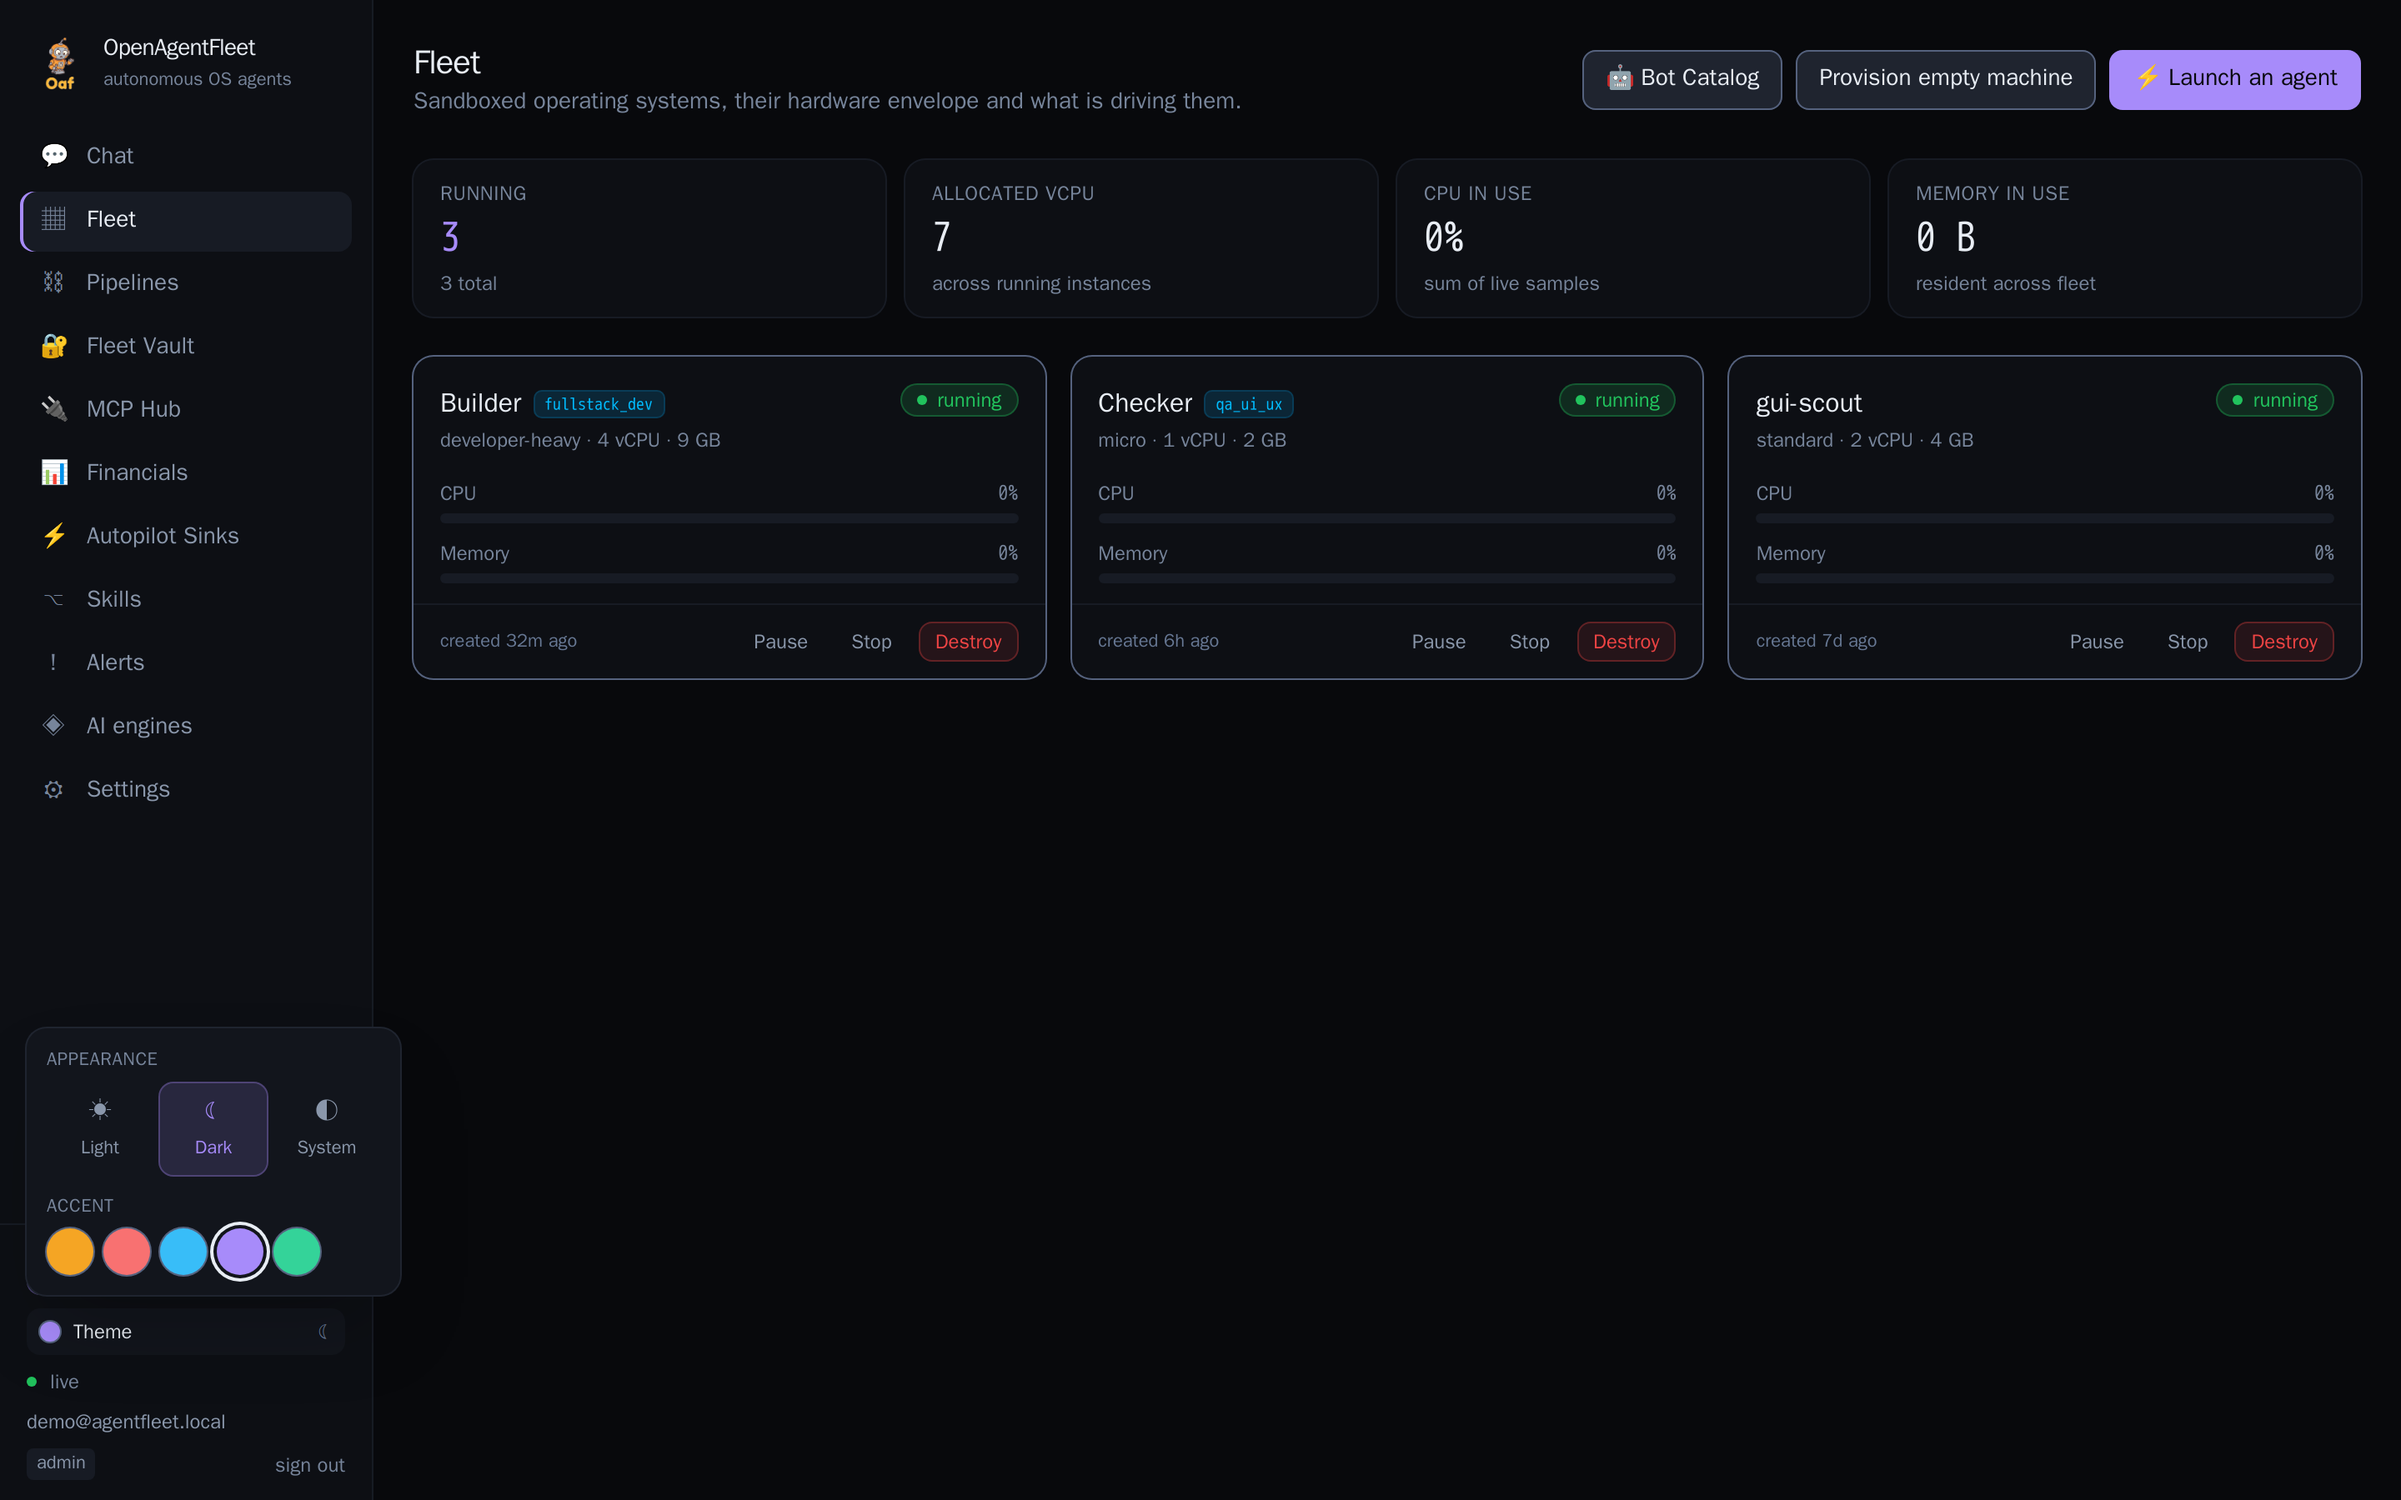
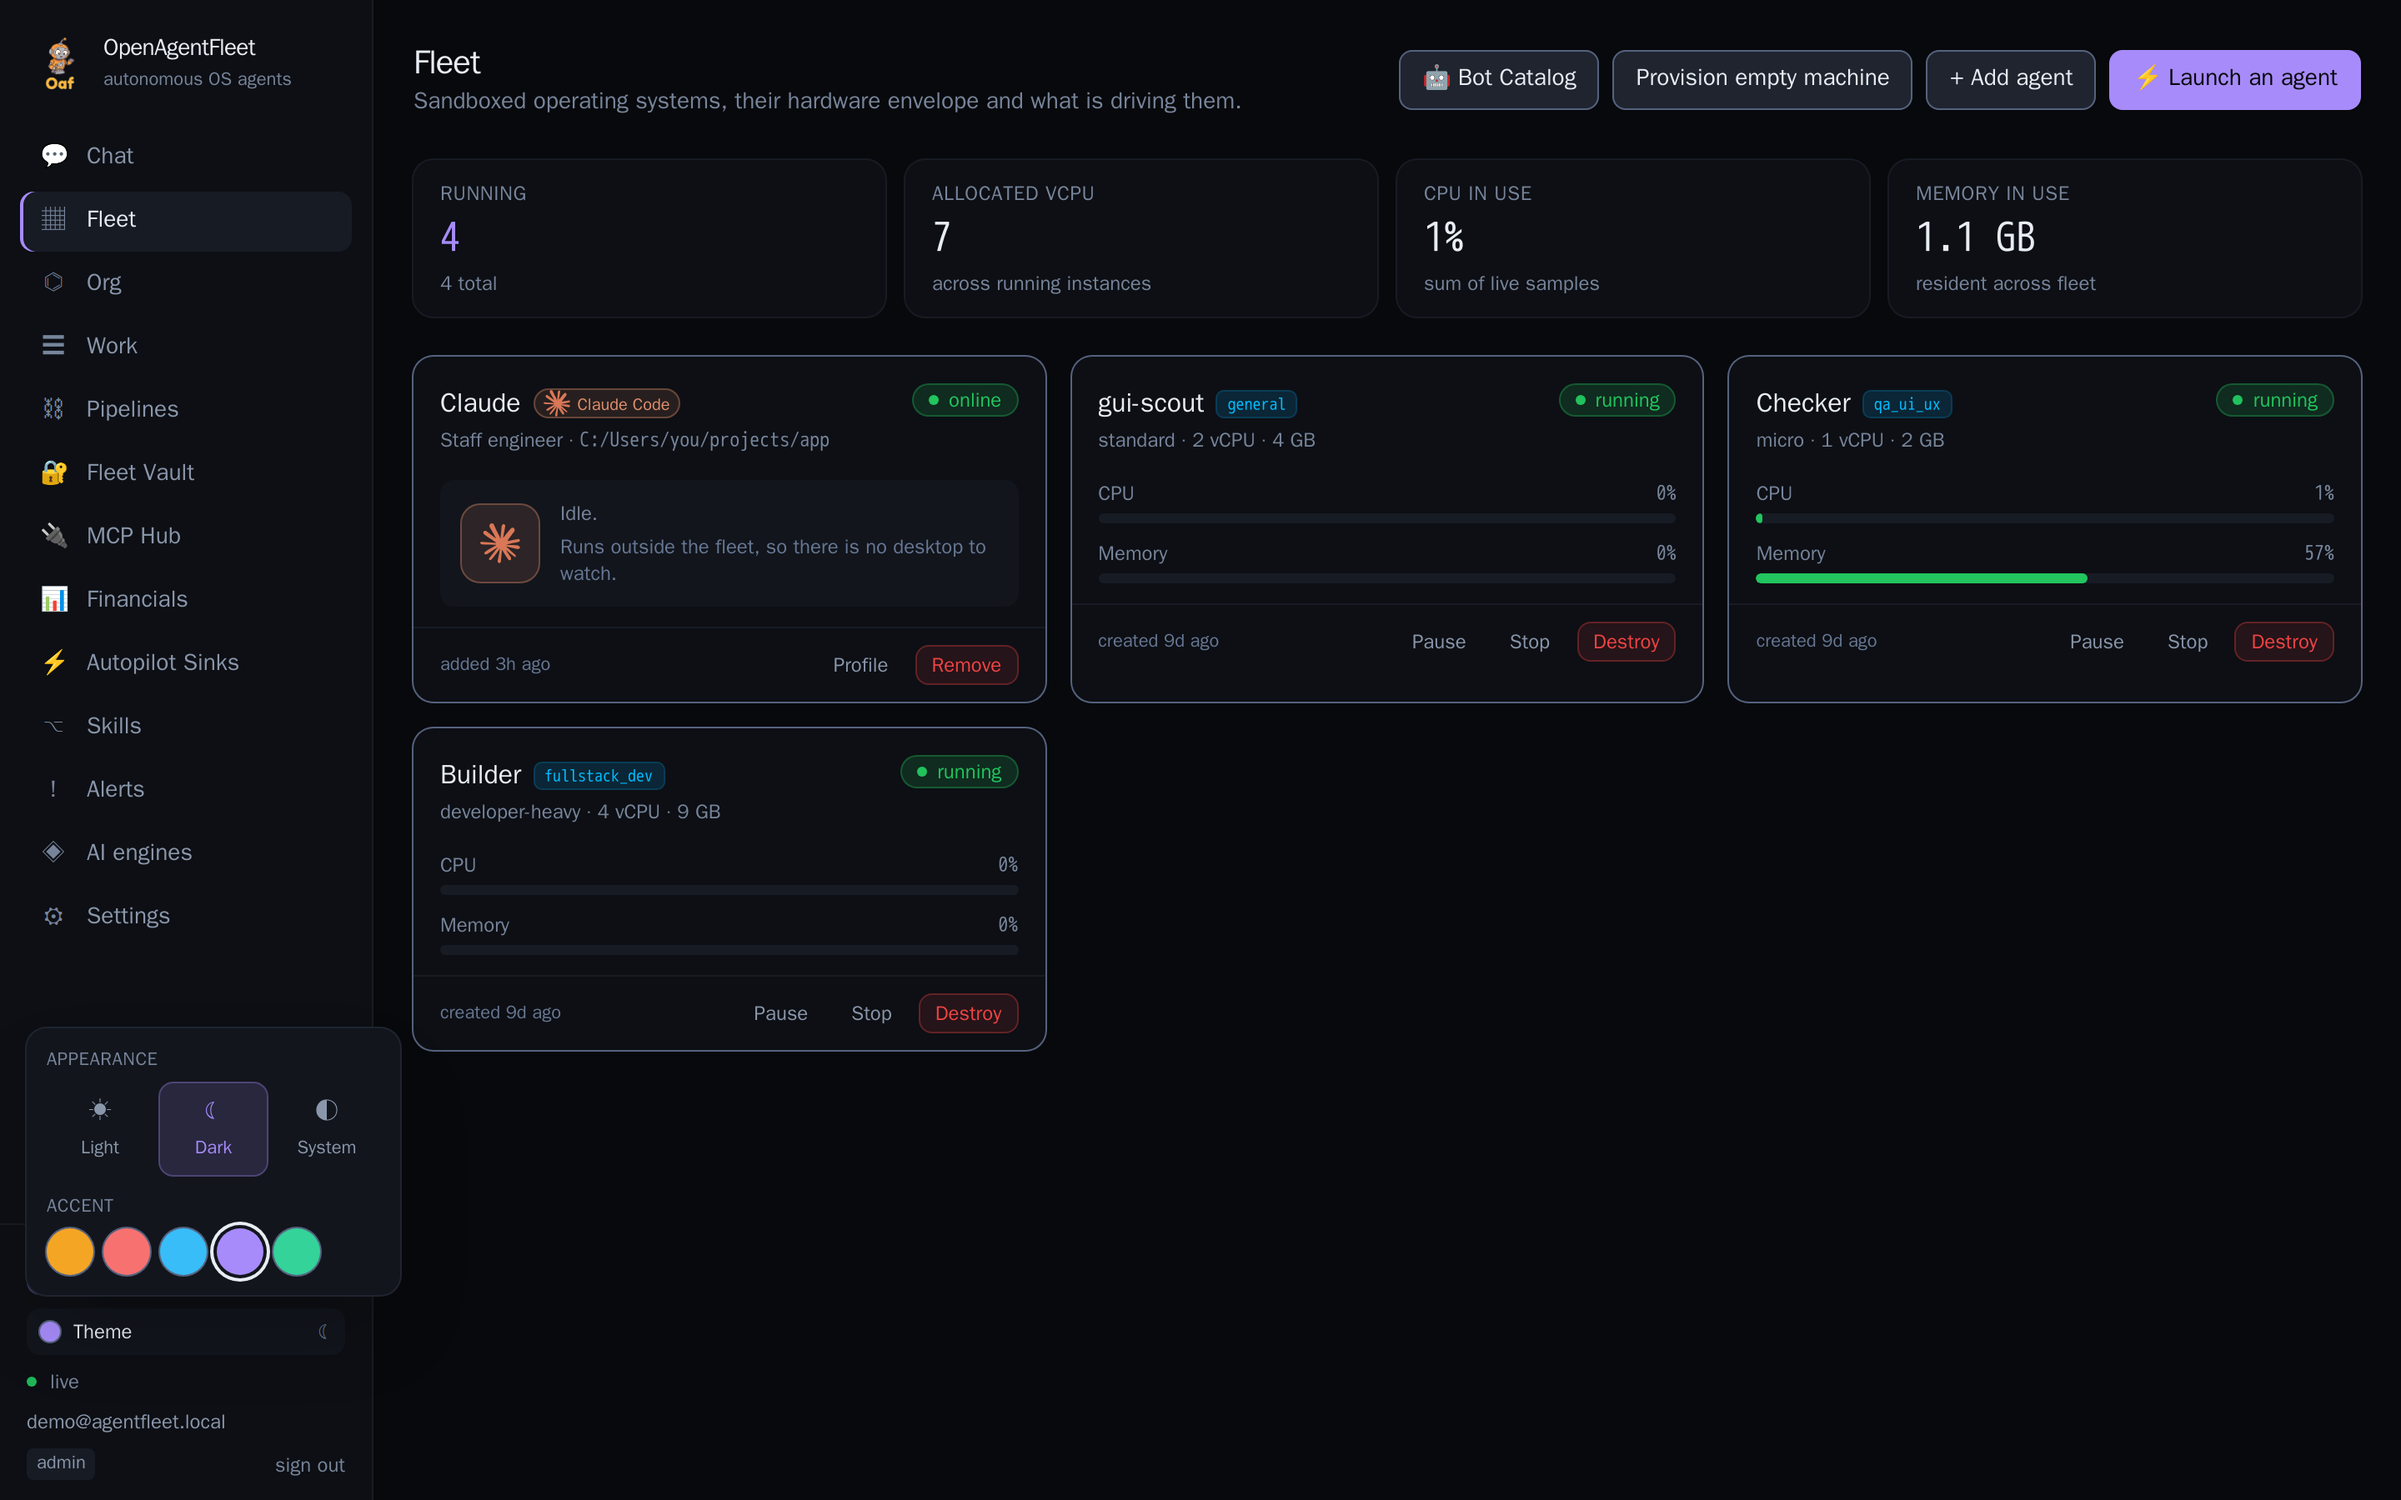
Docs gallery regenerated: Org, Work, a ticket, Add agent, and the app
- scripts/screenshots.mjs rerun against the rebuilt console: every
  console shot is current (the new sidebar, the Fleet card for the Claude
  Code agent), plus org, work, ticket and add-agent in dark/amber and
  light/blue. The PC is shown as 'Workstation' with C:/Users/you/projects
  so no real home directory is in the docs.
- The app's org chart, Work, ticket and add-agent screens, rendered from
  the real web build, dark and light.
- UI.md: sections for the four new console screens and the app set; the
  note about an empty fleet is no longer true.
- README: the org chart, Work, a ticket, Add agent and the app chart in
  'What it looks like'.

diff --git a/docs/UI.md b/docs/UI.md
@@ -8,8 +8,11 @@ Nothing here is a mockup. To regenerate them after a UI change:
 make screenshots
 ```
 
-The fleet is empty in these captures because they run against a fresh
-deployment — that is the genuine first-run state, not a staged one.
+They are captured against a small working fleet: three desktop bots and a
+Claude Code agent on a PC, with the tickets they actually worked. The PC's
+name and folder are the one thing changed for the pictures ("Workstation",
+`C:/Users/you/projects`), so a real home directory does not end up in the
+docs.
 
 ---
 
@@ -25,6 +28,48 @@ on a human turns amber and says so.
 | Dark | Light |
 | --- | --- |
 | ![Fleet, dark](images/fleet-dark-amber.png) | ![Fleet, light](images/fleet-light-blue.png) |
+
+### Org chart
+
+Who reports to whom. Everyone reports to you until you say otherwise; drag an
+agent onto another to change its manager (a drop that would make a loop is
+refused before it lands). Each card says what kind of agent it is — a desktop,
+or Claude Code, Codex, Hermes or OpenClaw with its own logo — what it is
+working on, and what it has spent this month against its budget.
+
+| Dark | Light |
+| --- | --- |
+| ![Org chart, dark](images/org-dark-amber.png) | ![Org chart, light](images/org-light-blue.png) |
+
+### Work
+
+Every ticket, from your requests down to their parts, by status. Drag a card
+between columns; cancelling one that has open parts says how many go with it.
+Verify and review tickets carry their verdict.
+
+| Dark | Light |
+| --- | --- |
+| ![Work board, dark](images/work-dark-amber.png) | ![Work board, light](images/work-light-blue.png) |
+
+### A ticket
+
+Why it matters (the chain up to your request), who has it, who reviews and
+verifies it, what it cost, the closing report, the files its agent shared
+with the fleet, and every comment and run.
+
+| Dark | Light |
+| --- | --- |
+| ![A ticket, dark](images/ticket-dark-amber.png) | ![A ticket, light](images/ticket-light-blue.png) |
+
+### Add an agent
+
+Desktop, Claude Code, Codex, Hermes, OpenClaw or a webhook. For the agents that
+live on a PC, pick the PC running `fleetctl host`, a folder under one of its
+roots, and how much it may do on its own.
+
+| Dark | Light |
+| --- | --- |
+| ![Add agent, dark](images/add-agent-dark-amber.png) | ![Add agent, light](images/add-agent-light-blue.png) |
 
 ### Launch an agent
 
@@ -81,7 +126,7 @@ authoritative — the one input it trusts above what is on its own screen.
 Access control and platform limits. The credential vault moved to its own
 top-level page; what remains here is the deployment secret store.
 
-> **This gallery covers nine of the console's sections**, regenerated with
+> **This gallery covers thirteen of the console's screens**, regenerated with
 > `make screenshots` — the fleet Chat the console opens on, then the rest. The navigation also carries Pipelines,
 > Fleet Vault, MCP Hub, Financials and Autopilot Sinks, plus the voice co-pilot
 > launcher, which are not photographed here. Two more sets live alongside this
@@ -100,6 +145,19 @@ sign in on a glaring screen to find the light switch.
 | Dark | Light |
 | --- | --- |
 | ![Login, dark](images/login-dark.png) | ![Login, light](images/login-light.png) |
+
+---
+
+## The companion app
+
+The same org chart, Work board and add-agent flow on the phone: long-press and
+drag on the chart to change who reports to whom, tap a shared file in a ticket
+to open it.
+
+| Org chart | Work | A ticket | Add an agent |
+| --- | --- | --- | --- |
+| ![Org chart on the phone, dark](images/app-org-dark.png) | ![Work on the phone, dark](images/app-work-dark.png) | ![A ticket on the phone, dark](images/app-ticket-dark.png) | ![Add agent on the phone, dark](images/app-add-agent-dark.png) |
+| ![Org chart on the phone, light](images/app-org-light.png) | ![Work on the phone, light](images/app-work-light.png) | ![A ticket on the phone, light](images/app-ticket-light.png) | ![Add agent on the phone, light](images/app-add-agent-light.png) |
 
 ---
 

diff --git a/README.md b/README.md
@@ -471,7 +471,32 @@ Real screenshots of a running fleet — console (`make screenshots`), live deskt
   <img src="docs/images/fleet-dark-amber.png" alt="Fleet dashboard" width="900">
 </p>
 
-<p align="center"><em>The fleet: every machine, its hardware envelope, and what its agent is doing right now.</em></p>
+<p align="center"><em>The fleet: every machine, its hardware envelope, and what its agent is doing right now — and the agents that are not machines, like this Claude Code on a PC.</em></p>
+
+<p align="center">
+  <img src="docs/images/org-dark-amber.png" alt="The org chart: desktop bots and a Claude Code agent reporting to Builder, each card with its kind, what it is on and its spend this month" width="900">
+</p>
+
+<p align="center"><em>The org chart. Drag an agent onto another to change who it reports to; blocked work goes up the chart to its manager, then to you.</em></p>
+
+<table>
+  <tr>
+    <td width="50%"><img src="docs/images/work-dark-amber.png" alt="The Work board: tickets by status, with verify tickets and their verdicts"></td>
+    <td width="50%"><img src="docs/images/ticket-dark-amber.png" alt="A ticket: why it matters, who has it, the closing report and the files its agent shared"></td>
+  </tr>
+  <tr>
+    <td align="center"><strong>Work</strong><br><sub>Every request and its parts, by status, with review and verify verdicts.</sub></td>
+    <td align="center"><strong>A ticket</strong><br><sub>The chain up to your request, the closing report, the files shared with the fleet.</sub></td>
+  </tr>
+  <tr>
+    <td width="50%"><img src="docs/images/add-agent-dark-amber.png" alt="Add a Claude Code agent: the PC, its folder, and edits or full autonomy"></td>
+    <td width="50%"><img src="docs/images/app-org-dark.png" alt="The org chart on the phone" height="360"></td>
+  </tr>
+  <tr>
+    <td align="center"><strong>Bring your agents</strong><br><sub>Claude Code, Codex or Hermes on your PC, an OpenClaw gateway or a webhook, beside the desktops.</sub></td>
+    <td align="center"><strong>On the phone</strong><br><sub>The same chart; long-press and drag to re-parent.</sub></td>
+  </tr>
+</table>
 
 ### The companion app
 
